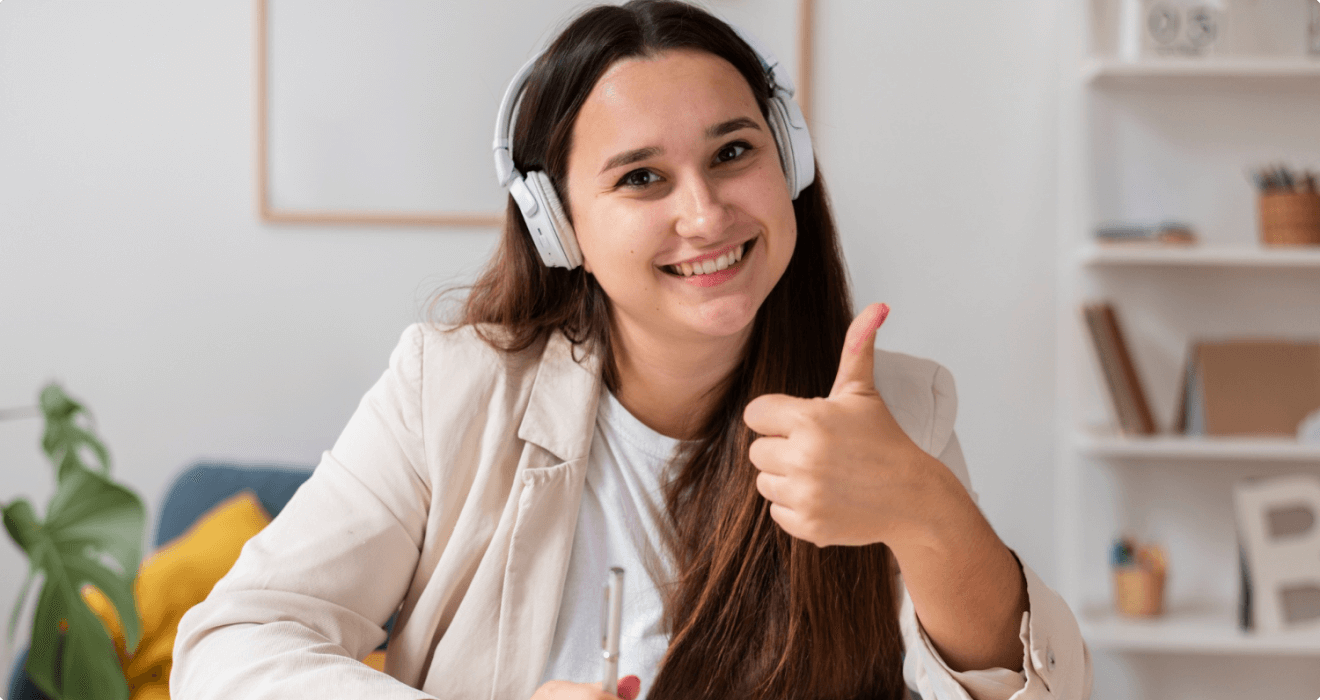
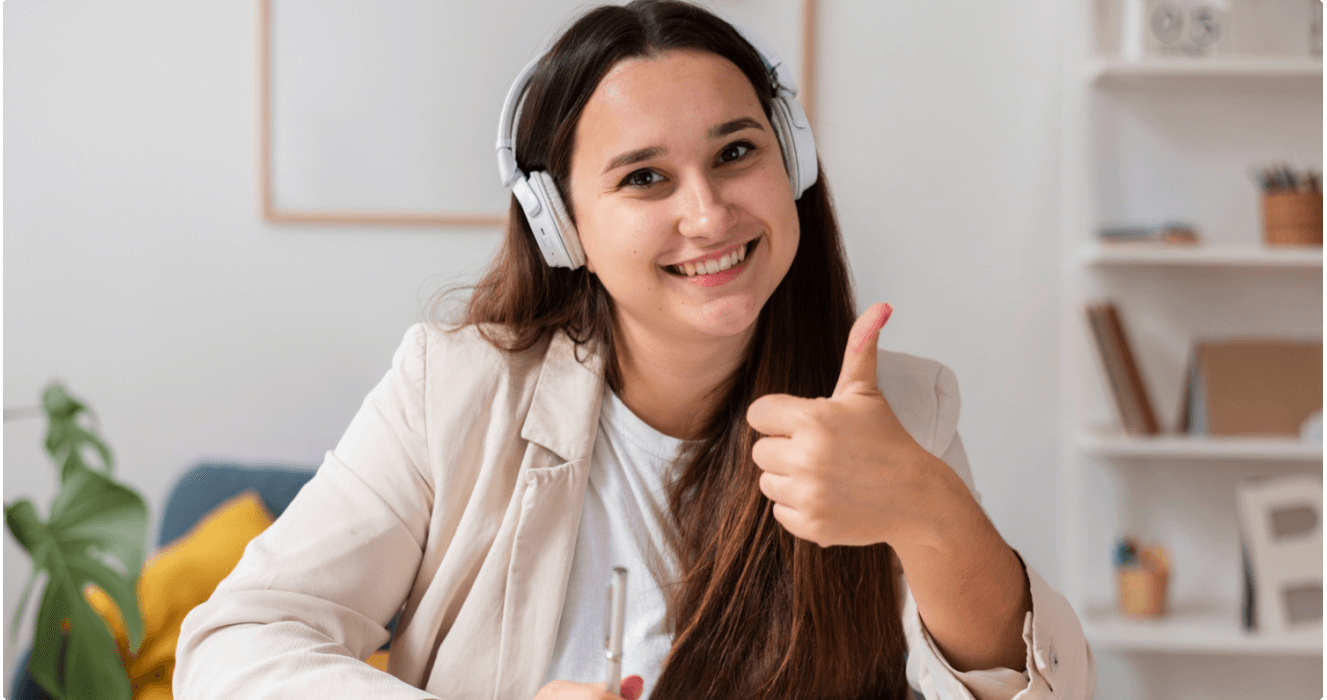
accordion model added

diff --git a/index.html b/index.html
@@ -58,7 +58,7 @@
       <div id="carouselExampleCaptions" class="carousel slide" data-bs-ride="carousel">
         <div class="carousel-inner">
           <div class="carousel-item active">
-            <img src="images/cover/cover-1.png" class="d-block w-100" alt="...">
+            <img src="images/cover/cover-1.png" class="d-block w-100 rounded" alt="...">
             <div class="carousel-caption">
               <h1 class="fw-semibolder">Get Started Digital Learning</h1>
               <p>It is a long established fact that a reader will be distracted by the readable content of a page when
@@ -67,7 +67,7 @@
             </div>
           </div>
           <div class="carousel-item">
-            <img src="images/cover/cover-2.png" class="d-block w-100" alt="...">
+            <img src="images/cover/cover-2.png" class="d-block w-100 rounded" alt="...">
             <div class="carousel-caption">
               <h1>Join Our New Courses</h1>
               <p>Some representative placeholder content for the second slide.</p>
@@ -75,9 +75,9 @@
             </div>
           </div>
           <div class="carousel-item">
-            <img src="images/cover/cover-3.png" class="d-block w-100" alt="...">
+            <img src="images/cover/cover-3.png" class="d-block w-100 rounded" alt="...">
             <div class="carousel-caption">
-              <h1>Full Free Web Development Courses</h1>
+              <h1>Top Web Development Courses</h1>
               <p>Some representative placeholder content for the third slide.</p>
               <button type="button" class="btn btn-primary btn-lg fw-semibold px-4">Get Started</button>
             </div>
@@ -260,8 +260,63 @@
       </div>
     </section>
     <!-- freequently ask questions -->
-    <section>
-
+    <section class="container-fluid w-75 mt-5 bottom-margin">
+      <div class="text-center mb-5">
+        <h1>Frequently Asked Questions</h1>
+        <p class="px-5">Lorem ipsum dolor sit amet consectetur adipisicing elit. Quod possimus, voluptatum repellat quae dolorem tenetur molestiae nulla. Dolorum consequuntur accusamus.</p>
+      </div>
+      <div>
+        <div class="accordion" id="accordionPanelsStayOpenExample">
+          <div class="accordion-item">
+            <h2 class="accordion-header" id="panelsStayOpen-headingOne">
+              <button class="accordion-button" type="button" data-bs-toggle="collapse" data-bs-target="#panelsStayOpen-collapseOne" aria-expanded="true" aria-controls="panelsStayOpen-collapseOne">
+                Accordion Item #1
+              </button>
+            </h2>
+            <div id="panelsStayOpen-collapseOne" class="accordion-collapse collapse show" aria-labelledby="panelsStayOpen-headingOne">
+              <div class="accordion-body">
+                <strong>This is the first item's accordion body.</strong> It is shown by default, until the collapse plugin adds the appropriate classes that we use to style each element. These classes control the overall appearance, as well as the showing and hiding via CSS transitions. You can modify any of this with custom CSS or overriding our default variables. It's also worth noting that just about any HTML can go within the <code>.accordion-body</code>, though the transition does limit overflow.
+              </div>
+            </div>
+          </div>
+          <div class="accordion-item">
+            <h2 class="accordion-header" id="panelsStayOpen-headingTwo">
+              <button class="accordion-button collapsed" type="button" data-bs-toggle="collapse" data-bs-target="#panelsStayOpen-collapseTwo" aria-expanded="false" aria-controls="panelsStayOpen-collapseTwo">
+                Accordion Item #2
+              </button>
+            </h2>
+            <div id="panelsStayOpen-collapseTwo" class="accordion-collapse collapse" aria-labelledby="panelsStayOpen-headingTwo">
+              <div class="accordion-body">
+                <strong>This is the second item's accordion body.</strong> It is hidden by default, until the collapse plugin adds the appropriate classes that we use to style each element. These classes control the overall appearance, as well as the showing and hiding via CSS transitions. You can modify any of this with custom CSS or overriding our default variables. It's also worth noting that just about any HTML can go within the <code>.accordion-body</code>, though the transition does limit overflow.
+              </div>
+            </div>
+          </div>
+          <div class="accordion-item">
+            <h2 class="accordion-header" id="panelsStayOpen-headingThree">
+              <button class="accordion-button collapsed" type="button" data-bs-toggle="collapse" data-bs-target="#panelsStayOpen-collapseThree" aria-expanded="false" aria-controls="panelsStayOpen-collapseThree">
+                Accordion Item #3
+              </button>
+            </h2>
+            <div id="panelsStayOpen-collapseThree" class="accordion-collapse collapse" aria-labelledby="panelsStayOpen-headingThree">
+              <div class="accordion-body">
+                <strong>This is the third item's accordion body.</strong> It is hidden by default, until the collapse plugin adds the appropriate classes that we use to style each element. These classes control the overall appearance, as well as the showing and hiding via CSS transitions. You can modify any of this with custom CSS or overriding our default variables. It's also worth noting that just about any HTML can go within the <code>.accordion-body</code>, though the transition does limit overflow.
+              </div>
+            </div>
+          </div>
+          <div class="accordion-item">
+            <h2 class="accordion-header" id="panelsStayOpen-headingFour">
+              <button class="accordion-button collapsed" type="button" data-bs-toggle="collapse" data-bs-target="#panelsStayOpen-collapseFour" aria-expanded="false" aria-controls="panelsStayOpen-collapseFour">
+                Accordion Item #4
+              </button>
+            </h2>
+            <div id="panelsStayOpen-collapseFour" class="accordion-collapse collapse" aria-labelledby="panelsStayOpen-headingFour">
+              <div class="accordion-body">
+                <strong>This is the third item's accordion body.</strong> It is hidden by default, until the collapse plugin adds the appropriate classes that we use to style each element. These classes control the overall appearance, as well as the showing and hiding via CSS transitions. You can modify any of this with custom CSS or overriding our default variables. It's also worth noting that just about any HTML can go within the <code>.accordion-body</code>, though the transition does limit overflow.
+              </div>
+            </div>
+          </div>
+        </div>
+      </div>
     </section>
     <!-- trusted companies -->
     <section class="container-fluid bottom-margin d-lg-block d-none">
